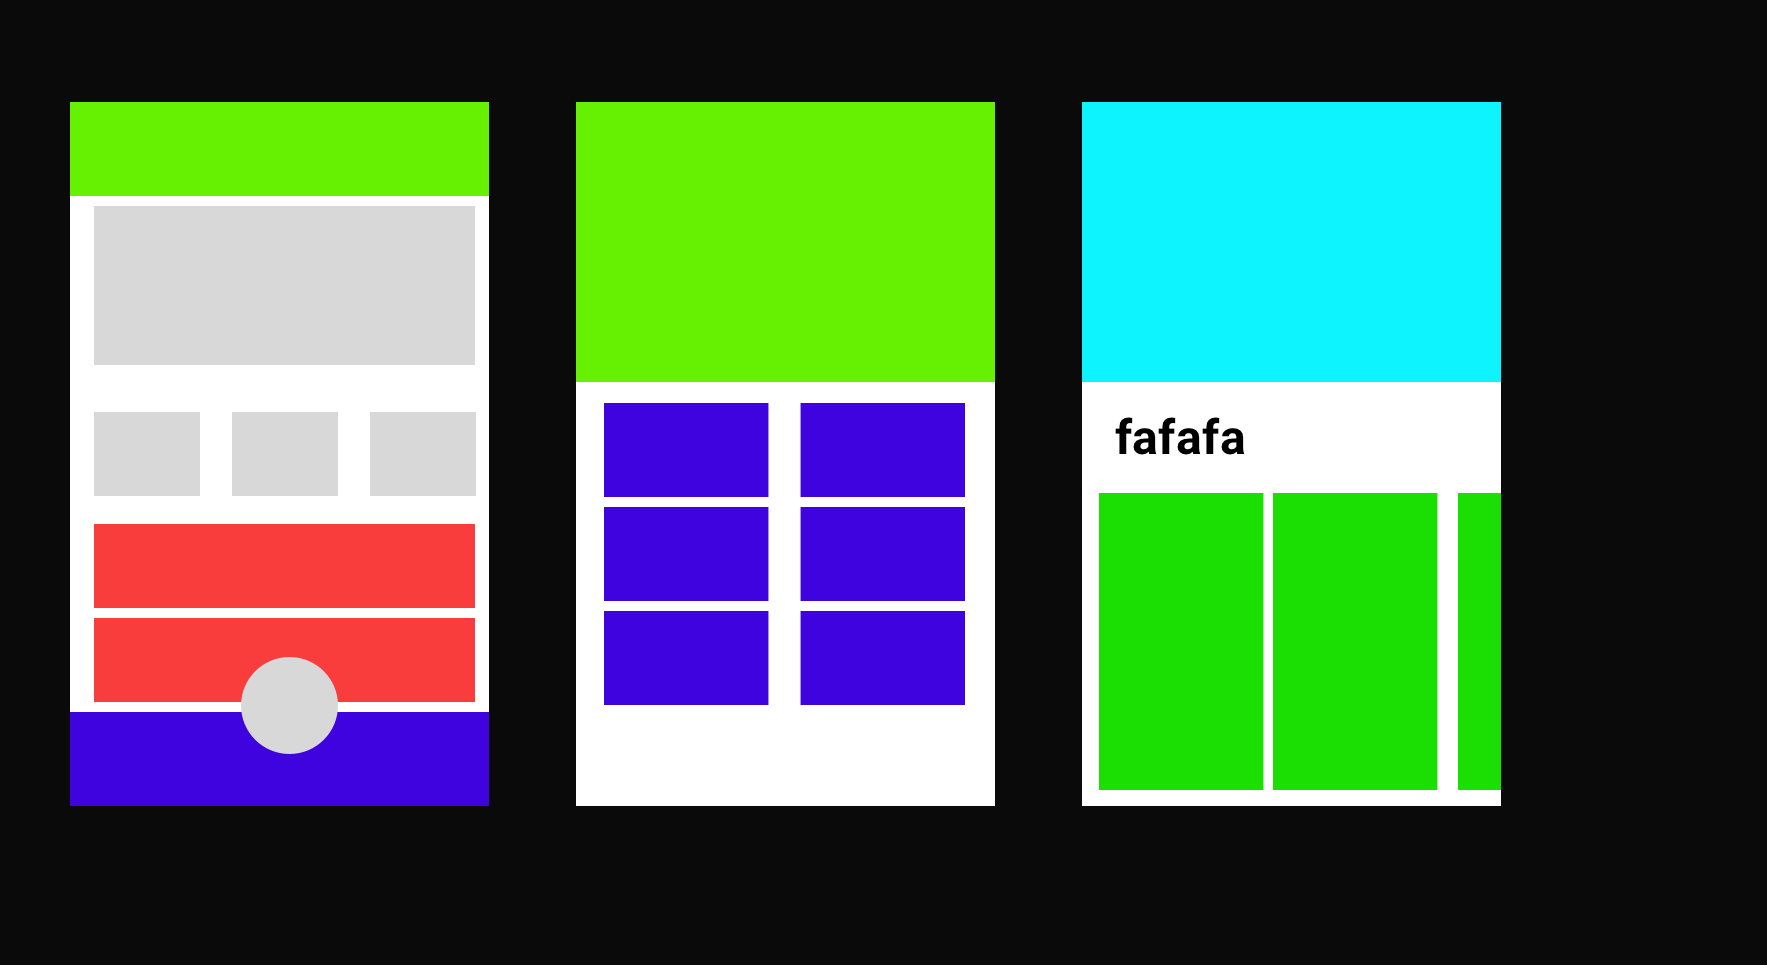
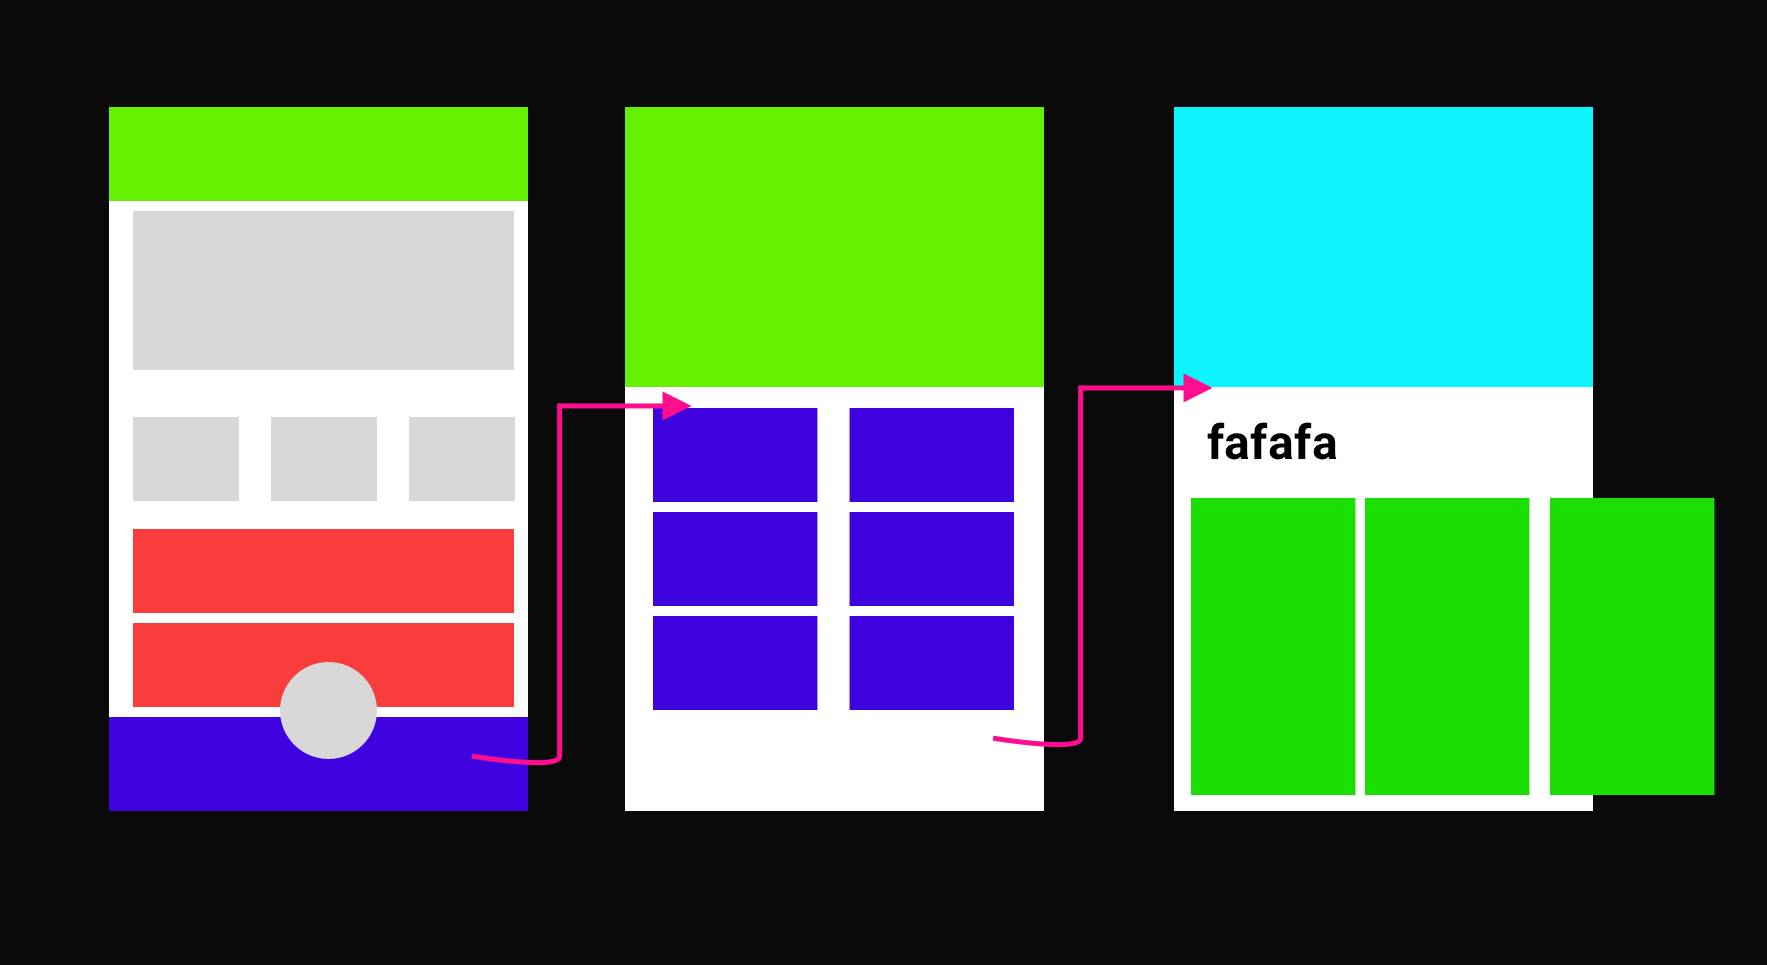
FLow Pink

Changed region(s): [[0.0311, 0.0933, 0.996, 0.8394]]

diff --git a/GIT_TEST-boards.md b/GIT_TEST-boards.md
@@ -1,17 +1,17 @@
 # Artboards
 
 This is an autogenerated file showing all the artboards. Do not edit it directly.
-## Home Screeen Copy 2
+## 01
 
-![Home Screeen Copy 2](./.exportedArtboards%2FGIT_TEST%2FHome%20Screeen%20Copy%202.png)
+![01](./.exportedArtboards%2FGIT_TEST%2F01.png)
 
-## Home Screeen Copy
+## 03
 
-![Home Screeen Copy](./.exportedArtboards%2FGIT_TEST%2FHome%20Screeen%20Copy.png)
+![03](./.exportedArtboards%2FGIT_TEST%2F03.png)
 
-## Home Screeen
+## 02
 
-![Home Screeen](./.exportedArtboards%2FGIT_TEST%2FHome%20Screeen.png)
+![02](./.exportedArtboards%2FGIT_TEST%2F02.png)
 
 ## Artboard
 
